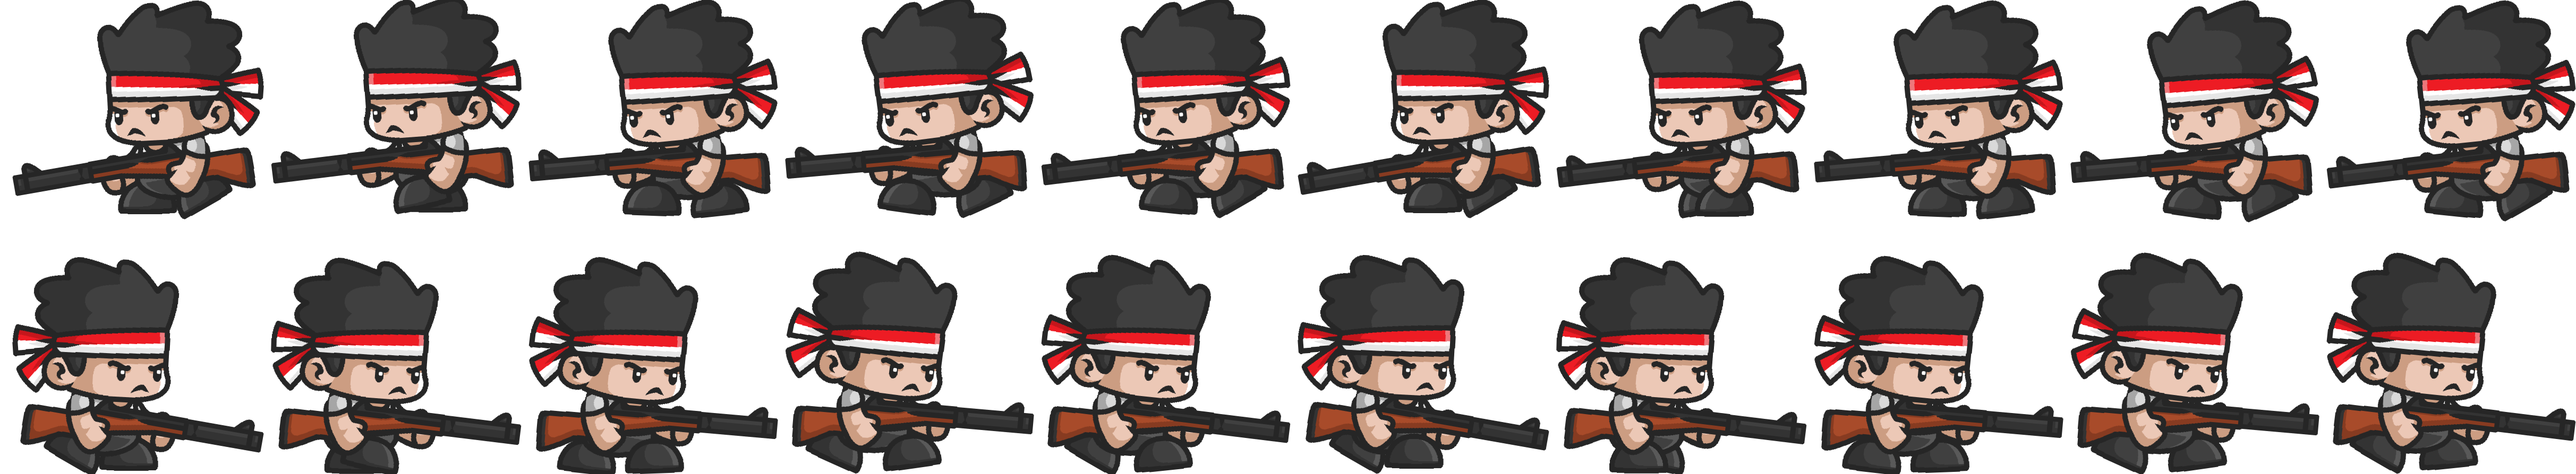
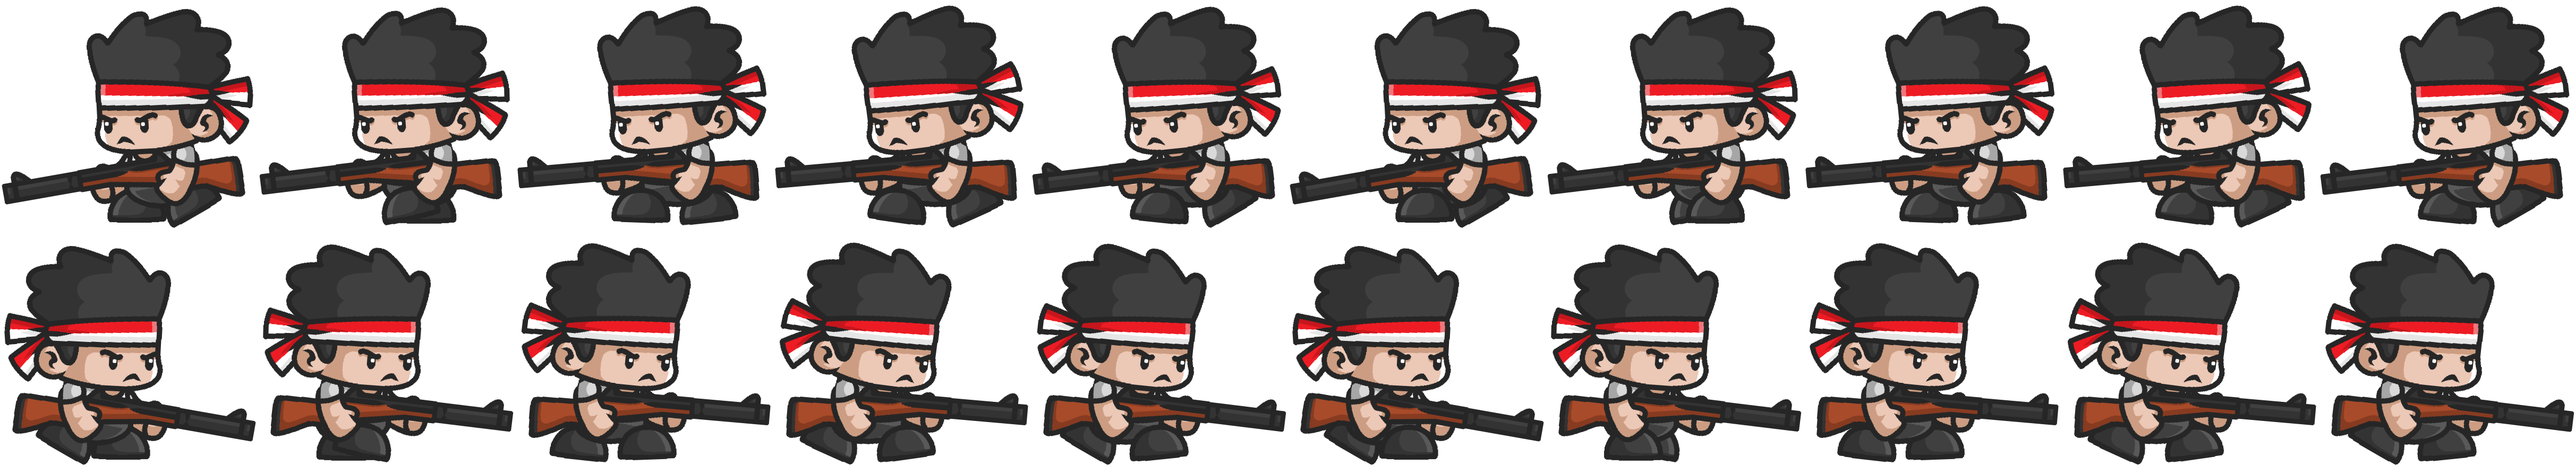
edit

diff --git a/js/main.js b/js/main.js
@@ -9,7 +9,7 @@ engine.addGround(new Ground('./image/ground_1.png', groundWidth, groundHeight, s
 engine.addGround(new Ground('./image/ground_2.png', groundWidth, groundHeight, scale));
 engine.addGround(new Ground('./image/ground_3.png', groundWidth, groundHeight, scale));
 
-engine.player = new Player('./image/idle.png', 20, engine.canvas.height * 0.72, scale);
+engine.player = new Player('./image/idle.png', './image/run.png', 20, engine.canvas.height * 0.72, scale);
 
 engine.update = (dt) => {
 	if ((Math.floor(-engine.camera.x / groundWidth / scale)) % 3 == 0) {
@@ -28,12 +28,18 @@ engine.update = (dt) => {
 	}
 
 	if (engine.input.isKeyDown('ArrowLeft')) {
-		engine.player.frame = 0;
+		engine.player.frame = 2;
+		engine.player.frame_idle = 0;
 		engine.player.translate(-3, 0);
 	}
 	if (engine.input.isKeyDown('ArrowRight')) {
-		engine.player.frame = 1;
+		engine.player.frame = 3;
+		engine.player.frame_idle = 1;
 		engine.player.translate(3, 0);
+	}
+	if (!engine.input.isKeyDown('ArrowLeft') && !engine.input.isKeyDown('ArrowRight')) {
+		engine.player.frame = engine.player.frame_idle;
+		engine.player.translate(0, 0);
 	}
 
 	//camera position in window

diff --git a/js/player.js b/js/player.js
@@ -1,14 +1,18 @@
 class Player {
-	constructor(image, x, y, scale = 1, hp = 100, mp = 100) {
-		this.image = image;
+	constructor(image_idle, image_run, x, y, scale = 1, hp = 100, mp = 100) {
+		this.image_idle = image_idle;
+		this.image_run = image_run;
 
 		this.position = new Vector(x, y);
 
 		this.frame = 1;
+		this.frame_idle = 1;
 
 		this.render =  [
-							new Render(this.image, this.position.x, this.position.y, 4870, 812, scale,  0, 9, 10, 2, 10),  //left
-							new Render(this.image, this.position.x, this.position.y, 4870, 812, scale, 10, 9, 10, 2, 10)   //right
+							new Render(this.image_idle, this.position.x, this.position.y, 4870, 812, scale,  0, 9, 10, 2, 10),  //left idle
+							new Render(this.image_idle, this.position.x, this.position.y, 4870, 812, scale, 10, 9, 10, 2, 10),  //right idle
+							new Render(this.image_run, this.position.x, this.position.y, 4850, 894, scale,  0, 9, 10, 2, 10),  //left run
+							new Render(this.image_run, this.position.x, this.position.y, 4850, 894, scale, 10, 9, 10, 2, 10)   //right run
 						];
 
 		this.hp = hp;
